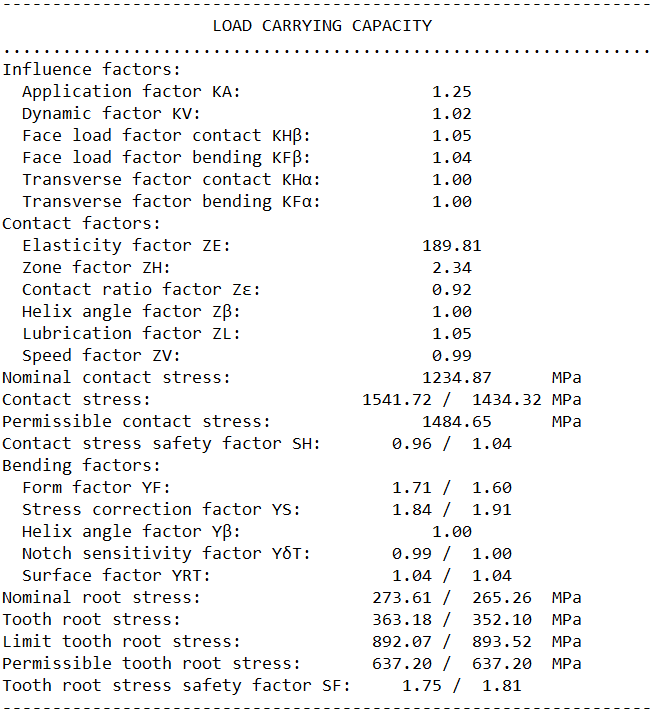
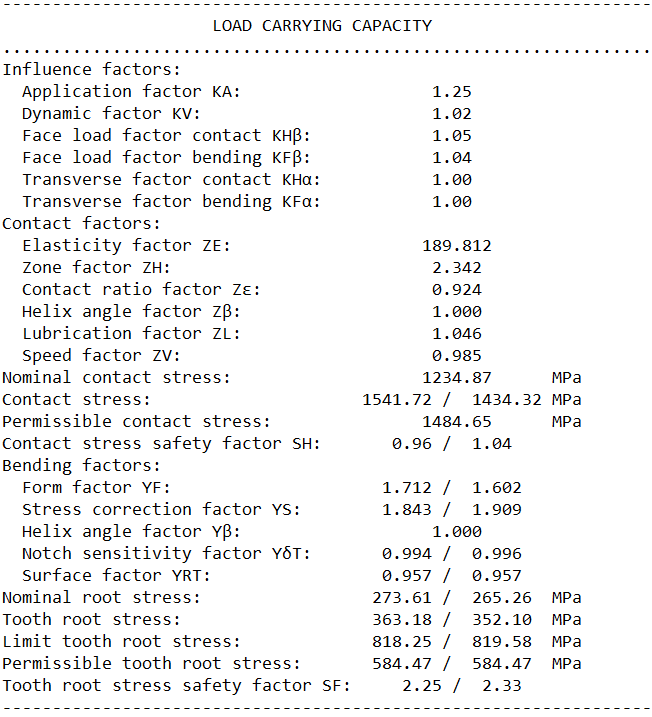
Update DIN 3990

diff --git a/CLASSES/OUTPUT_PRINT.py b/CLASSES/OUTPUT_PRINT.py
@@ -297,19 +297,19 @@ class PRINTING:
             ''), file=f)
         print('Contact factors:', file=f)
         print('{:<35s}{:^20s}{:<10s}'.format('  Elasticity factor ZE: ',
-                                             ' %.2f' % GLCC.ZE, ''), file=f)
+                                             ' %.3f' % GLCC.ZE, ''), file=f)
         print('{:<35s}{:^20s}{:<10s}'.format('  Zone factor ZH: ', 
-                                             ' %.2f' % GLCC.ZH, ''), file=f)
+                                             ' %.3f' % GLCC.ZH, ''), file=f)
         print('{:<35s}{:^20s}{:<10s}'.format('  Contact ratio factor Z\u03b5: '
-                                             ,' %.2f' % GLCC.ZEPS, ''), file=f)
+                                             ,' %.3f' % GLCC.ZEPS, ''), file=f)
         print('{:<35s}{:^20s}{:<10s}'.format('  Helix angle factor Z\u03b2: '
-                                             ,' %.2f' % GLCC.ZBETA, ''), 
+                                             ,' %.3f' % GLCC.ZBETA, ''), 
               file=f)
         print('{:<35s}{:^20s}{:<10s}'.format('  Lubrication factor ZL: '
-                                             ,' %.2f' % GLCC.ZL, ''), 
+                                             ,' %.3f' % GLCC.ZL, ''), 
               file=f)
         print('{:<35s}{:^20s}{:<10s}'.format('  Speed factor ZV: '
-                                             ,' %.2f' % GLCC.ZV, ''), 
+                                             ,' %.3f' % GLCC.ZV, ''), 
               file=f)
         print('{:<35s}{:^20s}{:<10s}'.format(
             'Nominal contact stress: ', ' %.2f' % GLCC.SigmaH0, 'MPa'),
@@ -327,19 +327,19 @@ class PRINTING:
             file=f)
         print('Bending factors:', file=f)
         print('{:<35s}{:^20s}{:<10s}'.format('  Form factor YF: ',
-                                             ' %.2f' % GLCC.YF1 + ' / ' +
-                                             ' %.2f' % GLCC.YF2, ''), file=f)
+                                             ' %.3f' % GLCC.YF1 + ' / ' +
+                                             ' %.3f' % GLCC.YF2, ''), file=f)
         print('{:<35s}{:^20s}{:<10s}'.format('  Stress correction factor YS: ',
-                                             ' %.2f' % GLCC.YS1 + ' / ' +
-                                             ' %.2f' % GLCC.YS2, ''), file=f)
+                                             ' %.3f' % GLCC.YS1 + ' / ' +
+                                             ' %.3f' % GLCC.YS2, ''), file=f)
         print('{:<35s}{:^20s}{:<10s}'.format('  Helix angle factor Y\u03b2: '
-                                             ,' %.2f' % GLCC.YB, ''), file=f)
+                                             ,' %.3f' % GLCC.YB, ''), file=f)
         print('{:<35s}{:^20s}{:<10s}'.format(
             '  Notch sensitivity factor Y\u03b4T: ', 
-            ' %.2f' % GLCC.YdelT1 + ' / ' + ' %.2f' % GLCC.YdelT2, ''), file=f)
+            ' %.3f' % GLCC.YdelT1 + ' / ' + ' %.3f' % GLCC.YdelT2, ''), file=f)
         print('{:<35s}{:^20s}{:<10s}'.format(
             '  Surface factor YRT: ', 
-            ' %.2f' % GLCC.YRrelT1 + ' / ' + ' %.2f' % GLCC.YRrelT2, ''), file=f)
+            ' %.3f' % GLCC.YRrelT1 + ' / ' + ' %.3f' % GLCC.YRrelT2, ''), file=f)
         print('{:<35s}{:^20s}{:<10s}'.format(
             'Nominal root stress: ', 
             ' %.2f' % GLCC.SigmaF01 + ' / ' + ' %.2f' % GLCC.SigmaF02, 'MPa'),

diff --git a/CLASSES/DIN3990.py b/CLASSES/DIN3990.py
@@ -22,7 +22,7 @@ SOFTWARE. '''
 class LCC:
     """Calculation of load carrying capacity according to DIN 3990 method C"""
     
-    def __init__(self, GTYPE, GMAT, GEO, GFS, KA, GL40):
+    def __init__(self, GMAT, GEO, GFS, KA, GL40):
 
         import numpy as np
         self.KA = KA
@@ -321,17 +321,18 @@ class LCC:
         self.YdelT2 = 0.9434 + 0.0231*(1 + 2*self.qs2)**0.5
         # # YdelT = 0.44 * YS + 0.12 # static analysis
         # surface factor (YRrelT)
-        # self.YRrelT = 0.957
-        if GTYPE.Rz[0] < 1:
-            self.RzDIN1 = 1
-        else:
-            self.RzDIN1 = GTYPE.Rz[0]
-        if GTYPE.Rz[1]  < 1:
-            self.RzDIN2 = 1
-        else:
-            self.RzDIN2 = GTYPE.Rz[1]
-        self.YRrelT1 = 1.674 - 0.529 * (self.RzDIN1 + 1) ** 0.1
-        self.YRrelT2 = 1.674 - 0.529 * (self.RzDIN2 + 1) ** 0.1
+        self.YRrelT1 = 0.957
+        self.YRrelT2 = 0.957
+        # if GTYPE.Rz[0] < 1:
+        #     self.RzDIN1 = 1
+        # else:
+        #     self.RzDIN1 = GTYPE.Rz[0]
+        # if GTYPE.Rz[1]  < 1:
+        #     self.RzDIN2 = 1
+        # else:
+        #     self.RzDIN2 = GTYPE.Rz[1]
+        # self.YRrelT1 = 1.674 - 0.529 * (self.RzDIN1 + 1) ** 0.1
+        # self.YRrelT2 = 1.674 - 0.529 * (self.RzDIN2 + 1) ** 0.1
         # 5.306 - 4.203 * (RzDIN + 1) ** 0.01
         # # YRrelT = 4.299 - 3.259 * (RzDIN + 1) ** 0.0058
         # ROOT STRESS =========================================================
@@ -347,5 +348,5 @@ class LCC:
         self.SigmaFG2 = self.SigmaFE*self.YdelT2*self.YRrelT2
         self.SigmaFP1 = self.SigmaFG1/self.SFmin
         self.SigmaFP2 = self.SigmaFG1/self.SFmin
-        self.SF1 = self.SigmaFP1/self.SigmaF1
-        self.SF2 = self.SigmaFP2/self.SigmaF2
+        self.SF1 = self.SigmaFG1/self.SigmaF1
+        self.SF2 = self.SigmaFG2/self.SigmaF2

diff --git a/GEARpie.py b/GEARpie.py
@@ -113,7 +113,7 @@ GCONTACT = CONTACT.HERTZ(GMAT, GLUB, GEO, GPATH, GFS, POSAE)
 KA = 1.25
 if MAT_PINION == ('STEEL' or 'ADI') and MAT_WHEEL == ('STEEL' or 'ADI'):
     GL40 = LUBRICANT_LIBRARY.LUBRICANT(BASE_NAME, LUB_NAME, 40)
-    GLCC = DIN3990.LCC(GTYPE, GMAT, GEO, GFS, KA, GL40)
+    GLCC = DIN3990.LCC(GMAT, GEO, GFS, KA, GL40)
 else:
     GLCC = VDI2736.LCC(GMAT, GEO, GFS, KA)
 # INVOLUTE PROFILE GEOMETRY ===================================================
